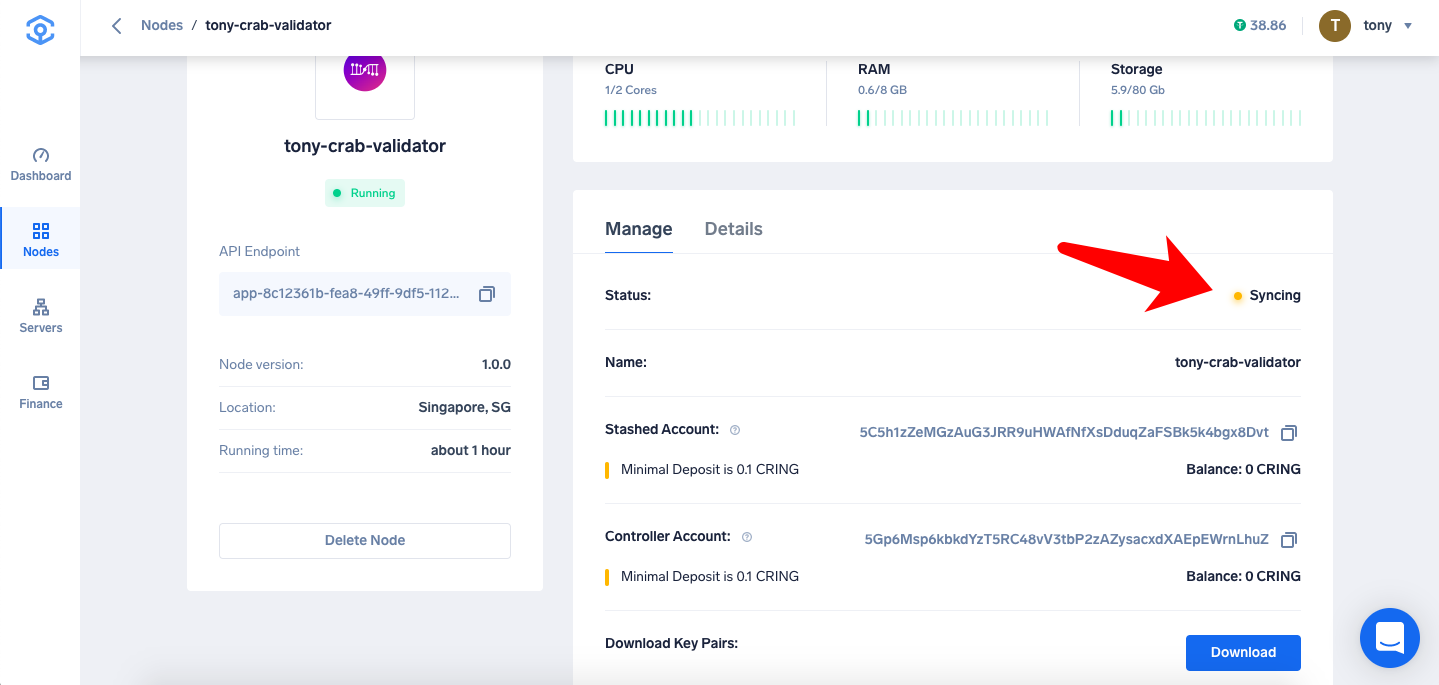
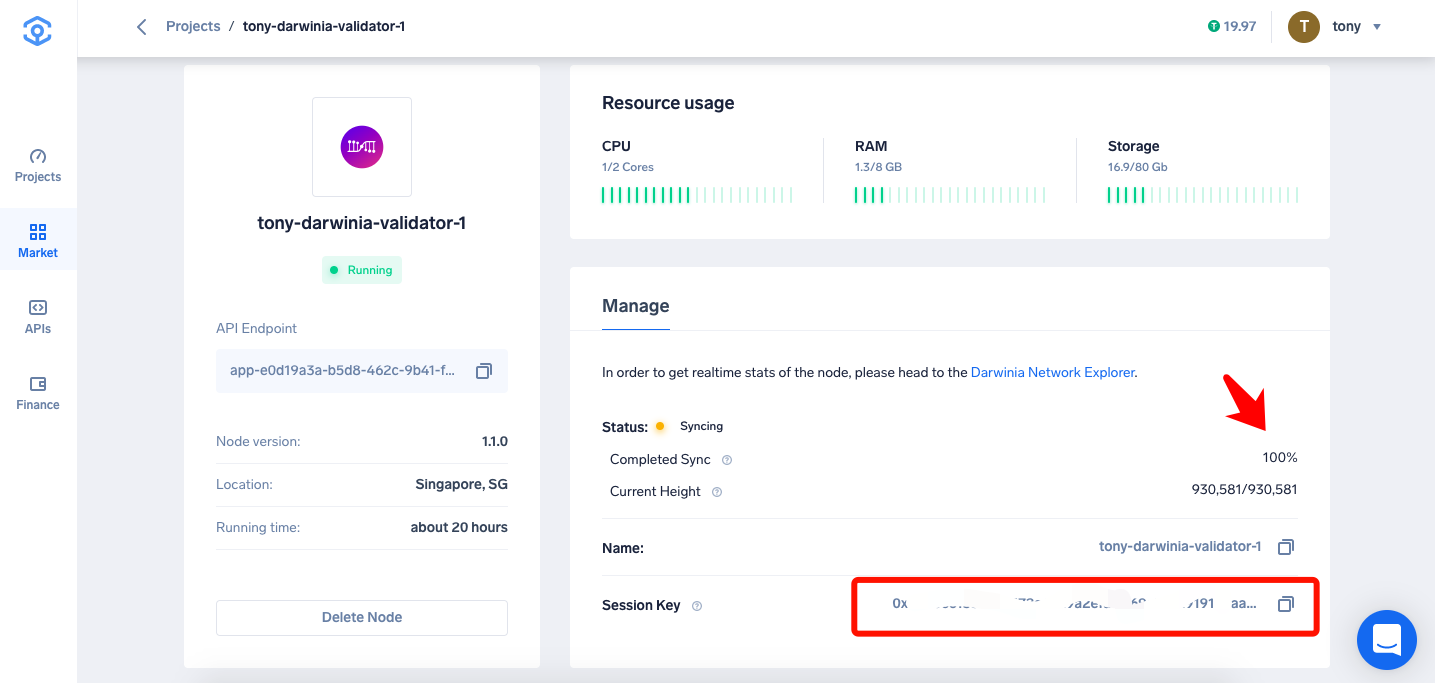
Deploy website
Deploy website version based on 58f637d30372a122e148349a996ee486a4a46407

diff --git a/blog/2020/06/08/ankr.html b/blog/2020/06/08/ankr.html
@@ -83,12 +83,12 @@
         </script></nav></div><div class="container mainContainer postContainer blogContainer"><div class="wrapper"><div class="lonePost"><div class="post"><header class="postHeader"><h1 class="postHeaderTitle"><a href="/blog/2020/06/08/ankr">Ankr Network 现已支持 Darwinia Crab</a></h1><p class="post-meta">June 8, 2020</p><div class="authorBlock"><p class="post-authorName"><a href="http://twitter.com/DarwiniaNetwork" target="_blank" rel="noreferrer noopener">@DarwiniaNetwork</a></p></div></header><div><span><p><img src="/blog/assets/2020-06-08-ankr.png" alt=""></p>
 <p>Ankr Network 现已支持「一键」运行 Darwinia Crab 节点。</p>
 <!--truncate-->
-<h2><a class="anchor" aria-hidden="true" id="如何通过-ankr-运行-darwinia-crab-节点"></a><a href="#如何通过-ankr-运行-darwinia-crab-节点" aria-hidden="true" class="hash-link"><svg class="hash-link-icon" aria-hidden="true" height="16" version="1.1" viewBox="0 0 16 16" width="16"><path fill-rule="evenodd" d="M4 9h1v1H4c-1.5 0-3-1.69-3-3.5S2.55 3 4 3h4c1.45 0 3 1.69 3 3.5 0 1.41-.91 2.72-2 3.25V8.59c.58-.45 1-1.27 1-2.09C10 5.22 8.98 4 8 4H4c-.98 0-2 1.22-2 2.5S3 9 4 9zm9-3h-1v1h1c1 0 2 1.22 2 2.5S13.98 12 13 12H9c-.98 0-2-1.22-2-2.5 0-.83.42-1.64 1-2.09V6.25c-1.09.53-2 1.84-2 3.25C6 11.31 7.55 13 9 13h4c1.45 0 3-1.69 3-3.5S14.5 6 13 6z"></path></svg></a>如何通过 Ankr 运行 Darwinia Crab 节点</h2>
-<h3><a class="anchor" aria-hidden="true" id="教程："></a><a href="#教程：" aria-hidden="true" class="hash-link"><svg class="hash-link-icon" aria-hidden="true" height="16" version="1.1" viewBox="0 0 16 16" width="16"><path fill-rule="evenodd" d="M4 9h1v1H4c-1.5 0-3-1.69-3-3.5S2.55 3 4 3h4c1.45 0 3 1.69 3 3.5 0 1.41-.91 2.72-2 3.25V8.59c.58-.45 1-1.27 1-2.09C10 5.22 8.98 4 8 4H4c-.98 0-2 1.22-2 2.5S3 9 4 9zm9-3h-1v1h1c1 0 2 1.22 2 2.5S13.98 12 13 12H9c-.98 0-2-1.22-2-2.5 0-.83.42-1.64 1-2.09V6.25c-1.09.53-2 1.84-2 3.25C6 11.31 7.55 13 9 13h4c1.45 0 3-1.69 3-3.5S14.5 6 13 6z"></path></svg></a>教程：</h3>
+<h1><a class="anchor" aria-hidden="true" id="如何通过-ankr-运行-darwinia-crab-节点"></a><a href="#如何通过-ankr-运行-darwinia-crab-节点" aria-hidden="true" class="hash-link"><svg class="hash-link-icon" aria-hidden="true" height="16" version="1.1" viewBox="0 0 16 16" width="16"><path fill-rule="evenodd" d="M4 9h1v1H4c-1.5 0-3-1.69-3-3.5S2.55 3 4 3h4c1.45 0 3 1.69 3 3.5 0 1.41-.91 2.72-2 3.25V8.59c.58-.45 1-1.27 1-2.09C10 5.22 8.98 4 8 4H4c-.98 0-2 1.22-2 2.5S3 9 4 9zm9-3h-1v1h1c1 0 2 1.22 2 2.5S13.98 12 13 12H9c-.98 0-2-1.22-2-2.5 0-.83.42-1.64 1-2.09V6.25c-1.09.53-2 1.84-2 3.25C6 11.31 7.55 13 9 13h4c1.45 0 3-1.69 3-3.5S14.5 6 13 6z"></path></svg></a>如何通过 Ankr 运行 Darwinia Crab 节点</h1>
+<h2><a class="anchor" aria-hidden="true" id="教程："></a><a href="#教程：" aria-hidden="true" class="hash-link"><svg class="hash-link-icon" aria-hidden="true" height="16" version="1.1" viewBox="0 0 16 16" width="16"><path fill-rule="evenodd" d="M4 9h1v1H4c-1.5 0-3-1.69-3-3.5S2.55 3 4 3h4c1.45 0 3 1.69 3 3.5 0 1.41-.91 2.72-2 3.25V8.59c.58-.45 1-1.27 1-2.09C10 5.22 8.98 4 8 4H4c-.98 0-2 1.22-2 2.5S3 9 4 9zm9-3h-1v1h1c1 0 2 1.22 2 2.5S13.98 12 13 12H9c-.98 0-2-1.22-2-2.5 0-.83.42-1.64 1-2.09V6.25c-1.09.53-2 1.84-2 3.25C6 11.31 7.55 13 9 13h4c1.45 0 3-1.69 3-3.5S14.5 6 13 6z"></path></svg></a>教程：</h2>
 <p>1、注册Ankr账号</p>
 <p>2、在Nodes → Node Market 找到 Darwinia，选择你想要运行的节点类型</p>
 <p><img src="/blog/assets/2020-06-08-ankr-2.png" alt=""></p>
-<h3><a class="anchor" aria-hidden="true" id="运行-full-node"></a><a href="#运行-full-node" aria-hidden="true" class="hash-link"><svg class="hash-link-icon" aria-hidden="true" height="16" version="1.1" viewBox="0 0 16 16" width="16"><path fill-rule="evenodd" d="M4 9h1v1H4c-1.5 0-3-1.69-3-3.5S2.55 3 4 3h4c1.45 0 3 1.69 3 3.5 0 1.41-.91 2.72-2 3.25V8.59c.58-.45 1-1.27 1-2.09C10 5.22 8.98 4 8 4H4c-.98 0-2 1.22-2 2.5S3 9 4 9zm9-3h-1v1h1c1 0 2 1.22 2 2.5S13.98 12 13 12H9c-.98 0-2-1.22-2-2.5 0-.83.42-1.64 1-2.09V6.25c-1.09.53-2 1.84-2 3.25C6 11.31 7.55 13 9 13h4c1.45 0 3-1.69 3-3.5S14.5 6 13 6z"></path></svg></a>运行 Full Node</h3>
+<h2><a class="anchor" aria-hidden="true" id="运行-full-node"></a><a href="#运行-full-node" aria-hidden="true" class="hash-link"><svg class="hash-link-icon" aria-hidden="true" height="16" version="1.1" viewBox="0 0 16 16" width="16"><path fill-rule="evenodd" d="M4 9h1v1H4c-1.5 0-3-1.69-3-3.5S2.55 3 4 3h4c1.45 0 3 1.69 3 3.5 0 1.41-.91 2.72-2 3.25V8.59c.58-.45 1-1.27 1-2.09C10 5.22 8.98 4 8 4H4c-.98 0-2 1.22-2 2.5S3 9 4 9zm9-3h-1v1h1c1 0 2 1.22 2 2.5S13.98 12 13 12H9c-.98 0-2-1.22-2-2.5 0-.83.42-1.64 1-2.09V6.25c-1.09.53-2 1.84-2 3.25C6 11.31 7.55 13 9 13h4c1.45 0 3-1.69 3-3.5S14.5 6 13 6z"></path></svg></a>运行 Full Node</h2>
 <ul>
 <li>选择服务器配置及其他信息</li>
 </ul>
@@ -105,16 +105,42 @@
 <li>3）可以随时删除节点，删除节点2个小时后，节点将从「Your Nodes」列表删除。</li>
 </ul></li>
 </ul>
-<h3><a class="anchor" aria-hidden="true" id="运行-validator-node"></a><a href="#运行-validator-node" aria-hidden="true" class="hash-link"><svg class="hash-link-icon" aria-hidden="true" height="16" version="1.1" viewBox="0 0 16 16" width="16"><path fill-rule="evenodd" d="M4 9h1v1H4c-1.5 0-3-1.69-3-3.5S2.55 3 4 3h4c1.45 0 3 1.69 3 3.5 0 1.41-.91 2.72-2 3.25V8.59c.58-.45 1-1.27 1-2.09C10 5.22 8.98 4 8 4H4c-.98 0-2 1.22-2 2.5S3 9 4 9zm9-3h-1v1h1c1 0 2 1.22 2 2.5S13.98 12 13 12H9c-.98 0-2-1.22-2-2.5 0-.83.42-1.64 1-2.09V6.25c-1.09.53-2 1.84-2 3.25C6 11.31 7.55 13 9 13h4c1.45 0 3-1.69 3-3.5S14.5 6 13 6z"></path></svg></a>运行 Validator Node</h3>
+<h2><a class="anchor" aria-hidden="true" id="运行-validator-node"></a><a href="#运行-validator-node" aria-hidden="true" class="hash-link"><svg class="hash-link-icon" aria-hidden="true" height="16" version="1.1" viewBox="0 0 16 16" width="16"><path fill-rule="evenodd" d="M4 9h1v1H4c-1.5 0-3-1.69-3-3.5S2.55 3 4 3h4c1.45 0 3 1.69 3 3.5 0 1.41-.91 2.72-2 3.25V8.59c.58-.45 1-1.27 1-2.09C10 5.22 8.98 4 8 4H4c-.98 0-2 1.22-2 2.5S3 9 4 9zm9-3h-1v1h1c1 0 2 1.22 2 2.5S13.98 12 13 12H9c-.98 0-2-1.22-2-2.5 0-.83.42-1.64 1-2.09V6.25c-1.09.53-2 1.84-2 3.25C6 11.31 7.55 13 9 13h4c1.45 0 3-1.69 3-3.5S14.5 6 13 6z"></path></svg></a>运行 Validator Node</h2>
+<h3><a class="anchor" aria-hidden="true" id="部署一个-validator-node"></a><a href="#部署一个-validator-node" aria-hidden="true" class="hash-link"><svg class="hash-link-icon" aria-hidden="true" height="16" version="1.1" viewBox="0 0 16 16" width="16"><path fill-rule="evenodd" d="M4 9h1v1H4c-1.5 0-3-1.69-3-3.5S2.55 3 4 3h4c1.45 0 3 1.69 3 3.5 0 1.41-.91 2.72-2 3.25V8.59c.58-.45 1-1.27 1-2.09C10 5.22 8.98 4 8 4H4c-.98 0-2 1.22-2 2.5S3 9 4 9zm9-3h-1v1h1c1 0 2 1.22 2 2.5S13.98 12 13 12H9c-.98 0-2-1.22-2-2.5 0-.83.42-1.64 1-2.09V6.25c-1.09.53-2 1.84-2 3.25C6 11.31 7.55 13 9 13h4c1.45 0 3-1.69 3-3.5S14.5 6 13 6z"></path></svg></a>部署一个 Validator Node</h3>
 <ul>
 <li>相同步骤参考全节点</li>
-<li>成功之后可以看到节点在同步中</li>
+<li>成功之后可以看到节点在同步中（同步需要较长时间，耐心等待同步完成）</li>
 </ul>
 <p><img src="/blog/assets/2020-06-08-ankr-5.png" alt=""></p>
 <ul>
-<li>可以点击「Download」下载Crab账号json文件，json文件的默认密码是：anKrpas5wd。</li>
+<li>红框内可以看到 Ankr 帮你生成的 Session Keys，复制</li>
 </ul>
-<p><img src="/blog/assets/2020-06-08-ankr-6.png" alt=""></p>
+<h3><a class="anchor" aria-hidden="true" id="设置-session-keys"></a><a href="#设置-session-keys" aria-hidden="true" class="hash-link"><svg class="hash-link-icon" aria-hidden="true" height="16" version="1.1" viewBox="0 0 16 16" width="16"><path fill-rule="evenodd" d="M4 9h1v1H4c-1.5 0-3-1.69-3-3.5S2.55 3 4 3h4c1.45 0 3 1.69 3 3.5 0 1.41-.91 2.72-2 3.25V8.59c.58-.45 1-1.27 1-2.09C10 5.22 8.98 4 8 4H4c-.98 0-2 1.22-2 2.5S3 9 4 9zm9-3h-1v1h1c1 0 2 1.22 2 2.5S13.98 12 13 12H9c-.98 0-2-1.22-2-2.5 0-.83.42-1.64 1-2.09V6.25c-1.09.53-2 1.84-2 3.25C6 11.31 7.55 13 9 13h4c1.45 0 3-1.69 3-3.5S14.5 6 13 6z"></path></svg></a>设置 Session Keys</h3>
+<blockquote>
+<p>在设置 Session Keys 之前，需要先完成 bond 操作</p>
+</blockquote>
+<p>点击【Session 账号】，输入刚刚复制的 Session Keys ，点击【设置Session Keys】提交。</p>
+<blockquote>
+<p>session keys 务必填写真实数据，否则会导致漏块，从而收到经济惩罚。</p>
+</blockquote>
+<p><img src="/blog/assets/tut-validator-1-cn.png" alt=""></p>
+<p>确认无误后，点击【签名并提交】</p>
+<p><img src="/blog/assets/tut-validator-2-cn.png" alt=""></p>
+<blockquote>
+<p>验证人和提名人的身份是互斥的，不可并存。如果您正在提名其他验证人，需要取消提名操作后，再进行后续的操作。</p>
+</blockquote>
+<p>点击【验证】，开始设置验证人参数</p>
+<ul>
+<li><code>奖励佣金百分比</code> 设置本节点优先分配收益的比重，范围为 <strong>0-100%</strong>。（例：如设置了 <strong>5%</strong> 的奖励佣金，本节点将优先获得节点收益的 <strong>5%</strong>，剩下 <strong>95%</strong> 的节点收益，将依据验证人和投票人抵押的金额，按比例分配；也就是说，<code>验证人的收益 = 节点奖励佣金 + 抵押奖励分成</code>）</li>
+</ul>
+<p><img src="/blog/assets/tut-validator-3-cn.png" alt=""></p>
+<p>确认无误后，点击【签名并提交】</p>
+<p><img src="/blog/assets/tut-validator-4-cn.png" alt=""></p>
+<p>去【浏览器】查看当前验证人的相关信息</p>
+<p><img src="/blog/assets/tut-validator-5-cn.png" alt=""></p>
+<blockquote>
+<p>参选验证人后会进入【候选】队列，在进入下一个 era 的时刻参与选举。</p>
+</blockquote>
 <ul>
 <li>Tips：
 <ul>
@@ -123,7 +149,7 @@
 </ul>
 <h2><a class="anchor" aria-hidden="true" id="关于-ankr-network"></a><a href="#关于-ankr-network" aria-hidden="true" class="hash-link"><svg class="hash-link-icon" aria-hidden="true" height="16" version="1.1" viewBox="0 0 16 16" width="16"><path fill-rule="evenodd" d="M4 9h1v1H4c-1.5 0-3-1.69-3-3.5S2.55 3 4 3h4c1.45 0 3 1.69 3 3.5 0 1.41-.91 2.72-2 3.25V8.59c.58-.45 1-1.27 1-2.09C10 5.22 8.98 4 8 4H4c-.98 0-2 1.22-2 2.5S3 9 4 9zm9-3h-1v1h1c1 0 2 1.22 2 2.5S13.98 12 13 12H9c-.98 0-2-1.22-2-2.5 0-.83.42-1.64 1-2.09V6.25c-1.09.53-2 1.84-2 3.25C6 11.31 7.55 13 9 13h4c1.45 0 3-1.69 3-3.5S14.5 6 13 6z"></path></svg></a>关于 Ankr Network</h2>
 <p>Ankr 正在构建一个分布式计算网络，利用数据中心和边缘设备中的空闲云资源。 计算市场通过惠及市场双方，为云计算释放共享经济。借助 Kubernetes，Docker 容器，区块链和可信硬件等技术，Ankr 正在使新云更便宜，更安全，更便于用户使用。该团队由雄心勃勃的连续创业者和经验丰富的工程师领导，并积极与 SAP 和 Telefonica 等大型科技公司合作，以实现现实世界的应用。</p>
[2 lines of base64/hex data omitted]
                 document.addEventListener('keyup', function(e) {
                   if (e.target !== document.body) {
                     return;

diff --git a/blog/2020/06/08/ankr/index.html b/blog/2020/06/08/ankr/index.html
@@ -83,12 +83,12 @@
         </script></nav></div><div class="container mainContainer postContainer blogContainer"><div class="wrapper"><div class="lonePost"><div class="post"><header class="postHeader"><h1 class="postHeaderTitle"><a href="/blog/2020/06/08/ankr">Ankr Network 现已支持 Darwinia Crab</a></h1><p class="post-meta">June 8, 2020</p><div class="authorBlock"><p class="post-authorName"><a href="http://twitter.com/DarwiniaNetwork" target="_blank" rel="noreferrer noopener">@DarwiniaNetwork</a></p></div></header><div><span><p><img src="/blog/assets/2020-06-08-ankr.png" alt=""></p>
 <p>Ankr Network 现已支持「一键」运行 Darwinia Crab 节点。</p>
 <!--truncate-->
-<h2><a class="anchor" aria-hidden="true" id="如何通过-ankr-运行-darwinia-crab-节点"></a><a href="#如何通过-ankr-运行-darwinia-crab-节点" aria-hidden="true" class="hash-link"><svg class="hash-link-icon" aria-hidden="true" height="16" version="1.1" viewBox="0 0 16 16" width="16"><path fill-rule="evenodd" d="M4 9h1v1H4c-1.5 0-3-1.69-3-3.5S2.55 3 4 3h4c1.45 0 3 1.69 3 3.5 0 1.41-.91 2.72-2 3.25V8.59c.58-.45 1-1.27 1-2.09C10 5.22 8.98 4 8 4H4c-.98 0-2 1.22-2 2.5S3 9 4 9zm9-3h-1v1h1c1 0 2 1.22 2 2.5S13.98 12 13 12H9c-.98 0-2-1.22-2-2.5 0-.83.42-1.64 1-2.09V6.25c-1.09.53-2 1.84-2 3.25C6 11.31 7.55 13 9 13h4c1.45 0 3-1.69 3-3.5S14.5 6 13 6z"></path></svg></a>如何通过 Ankr 运行 Darwinia Crab 节点</h2>
-<h3><a class="anchor" aria-hidden="true" id="教程："></a><a href="#教程：" aria-hidden="true" class="hash-link"><svg class="hash-link-icon" aria-hidden="true" height="16" version="1.1" viewBox="0 0 16 16" width="16"><path fill-rule="evenodd" d="M4 9h1v1H4c-1.5 0-3-1.69-3-3.5S2.55 3 4 3h4c1.45 0 3 1.69 3 3.5 0 1.41-.91 2.72-2 3.25V8.59c.58-.45 1-1.27 1-2.09C10 5.22 8.98 4 8 4H4c-.98 0-2 1.22-2 2.5S3 9 4 9zm9-3h-1v1h1c1 0 2 1.22 2 2.5S13.98 12 13 12H9c-.98 0-2-1.22-2-2.5 0-.83.42-1.64 1-2.09V6.25c-1.09.53-2 1.84-2 3.25C6 11.31 7.55 13 9 13h4c1.45 0 3-1.69 3-3.5S14.5 6 13 6z"></path></svg></a>教程：</h3>
+<h1><a class="anchor" aria-hidden="true" id="如何通过-ankr-运行-darwinia-crab-节点"></a><a href="#如何通过-ankr-运行-darwinia-crab-节点" aria-hidden="true" class="hash-link"><svg class="hash-link-icon" aria-hidden="true" height="16" version="1.1" viewBox="0 0 16 16" width="16"><path fill-rule="evenodd" d="M4 9h1v1H4c-1.5 0-3-1.69-3-3.5S2.55 3 4 3h4c1.45 0 3 1.69 3 3.5 0 1.41-.91 2.72-2 3.25V8.59c.58-.45 1-1.27 1-2.09C10 5.22 8.98 4 8 4H4c-.98 0-2 1.22-2 2.5S3 9 4 9zm9-3h-1v1h1c1 0 2 1.22 2 2.5S13.98 12 13 12H9c-.98 0-2-1.22-2-2.5 0-.83.42-1.64 1-2.09V6.25c-1.09.53-2 1.84-2 3.25C6 11.31 7.55 13 9 13h4c1.45 0 3-1.69 3-3.5S14.5 6 13 6z"></path></svg></a>如何通过 Ankr 运行 Darwinia Crab 节点</h1>
+<h2><a class="anchor" aria-hidden="true" id="教程："></a><a href="#教程：" aria-hidden="true" class="hash-link"><svg class="hash-link-icon" aria-hidden="true" height="16" version="1.1" viewBox="0 0 16 16" width="16"><path fill-rule="evenodd" d="M4 9h1v1H4c-1.5 0-3-1.69-3-3.5S2.55 3 4 3h4c1.45 0 3 1.69 3 3.5 0 1.41-.91 2.72-2 3.25V8.59c.58-.45 1-1.27 1-2.09C10 5.22 8.98 4 8 4H4c-.98 0-2 1.22-2 2.5S3 9 4 9zm9-3h-1v1h1c1 0 2 1.22 2 2.5S13.98 12 13 12H9c-.98 0-2-1.22-2-2.5 0-.83.42-1.64 1-2.09V6.25c-1.09.53-2 1.84-2 3.25C6 11.31 7.55 13 9 13h4c1.45 0 3-1.69 3-3.5S14.5 6 13 6z"></path></svg></a>教程：</h2>
 <p>1、注册Ankr账号</p>
 <p>2、在Nodes → Node Market 找到 Darwinia，选择你想要运行的节点类型</p>
 <p><img src="/blog/assets/2020-06-08-ankr-2.png" alt=""></p>
-<h3><a class="anchor" aria-hidden="true" id="运行-full-node"></a><a href="#运行-full-node" aria-hidden="true" class="hash-link"><svg class="hash-link-icon" aria-hidden="true" height="16" version="1.1" viewBox="0 0 16 16" width="16"><path fill-rule="evenodd" d="M4 9h1v1H4c-1.5 0-3-1.69-3-3.5S2.55 3 4 3h4c1.45 0 3 1.69 3 3.5 0 1.41-.91 2.72-2 3.25V8.59c.58-.45 1-1.27 1-2.09C10 5.22 8.98 4 8 4H4c-.98 0-2 1.22-2 2.5S3 9 4 9zm9-3h-1v1h1c1 0 2 1.22 2 2.5S13.98 12 13 12H9c-.98 0-2-1.22-2-2.5 0-.83.42-1.64 1-2.09V6.25c-1.09.53-2 1.84-2 3.25C6 11.31 7.55 13 9 13h4c1.45 0 3-1.69 3-3.5S14.5 6 13 6z"></path></svg></a>运行 Full Node</h3>
+<h2><a class="anchor" aria-hidden="true" id="运行-full-node"></a><a href="#运行-full-node" aria-hidden="true" class="hash-link"><svg class="hash-link-icon" aria-hidden="true" height="16" version="1.1" viewBox="0 0 16 16" width="16"><path fill-rule="evenodd" d="M4 9h1v1H4c-1.5 0-3-1.69-3-3.5S2.55 3 4 3h4c1.45 0 3 1.69 3 3.5 0 1.41-.91 2.72-2 3.25V8.59c.58-.45 1-1.27 1-2.09C10 5.22 8.98 4 8 4H4c-.98 0-2 1.22-2 2.5S3 9 4 9zm9-3h-1v1h1c1 0 2 1.22 2 2.5S13.98 12 13 12H9c-.98 0-2-1.22-2-2.5 0-.83.42-1.64 1-2.09V6.25c-1.09.53-2 1.84-2 3.25C6 11.31 7.55 13 9 13h4c1.45 0 3-1.69 3-3.5S14.5 6 13 6z"></path></svg></a>运行 Full Node</h2>
 <ul>
 <li>选择服务器配置及其他信息</li>
 </ul>
@@ -105,16 +105,42 @@
 <li>3）可以随时删除节点，删除节点2个小时后，节点将从「Your Nodes」列表删除。</li>
 </ul></li>
 </ul>
-<h3><a class="anchor" aria-hidden="true" id="运行-validator-node"></a><a href="#运行-validator-node" aria-hidden="true" class="hash-link"><svg class="hash-link-icon" aria-hidden="true" height="16" version="1.1" viewBox="0 0 16 16" width="16"><path fill-rule="evenodd" d="M4 9h1v1H4c-1.5 0-3-1.69-3-3.5S2.55 3 4 3h4c1.45 0 3 1.69 3 3.5 0 1.41-.91 2.72-2 3.25V8.59c.58-.45 1-1.27 1-2.09C10 5.22 8.98 4 8 4H4c-.98 0-2 1.22-2 2.5S3 9 4 9zm9-3h-1v1h1c1 0 2 1.22 2 2.5S13.98 12 13 12H9c-.98 0-2-1.22-2-2.5 0-.83.42-1.64 1-2.09V6.25c-1.09.53-2 1.84-2 3.25C6 11.31 7.55 13 9 13h4c1.45 0 3-1.69 3-3.5S14.5 6 13 6z"></path></svg></a>运行 Validator Node</h3>
+<h2><a class="anchor" aria-hidden="true" id="运行-validator-node"></a><a href="#运行-validator-node" aria-hidden="true" class="hash-link"><svg class="hash-link-icon" aria-hidden="true" height="16" version="1.1" viewBox="0 0 16 16" width="16"><path fill-rule="evenodd" d="M4 9h1v1H4c-1.5 0-3-1.69-3-3.5S2.55 3 4 3h4c1.45 0 3 1.69 3 3.5 0 1.41-.91 2.72-2 3.25V8.59c.58-.45 1-1.27 1-2.09C10 5.22 8.98 4 8 4H4c-.98 0-2 1.22-2 2.5S3 9 4 9zm9-3h-1v1h1c1 0 2 1.22 2 2.5S13.98 12 13 12H9c-.98 0-2-1.22-2-2.5 0-.83.42-1.64 1-2.09V6.25c-1.09.53-2 1.84-2 3.25C6 11.31 7.55 13 9 13h4c1.45 0 3-1.69 3-3.5S14.5 6 13 6z"></path></svg></a>运行 Validator Node</h2>
+<h3><a class="anchor" aria-hidden="true" id="部署一个-validator-node"></a><a href="#部署一个-validator-node" aria-hidden="true" class="hash-link"><svg class="hash-link-icon" aria-hidden="true" height="16" version="1.1" viewBox="0 0 16 16" width="16"><path fill-rule="evenodd" d="M4 9h1v1H4c-1.5 0-3-1.69-3-3.5S2.55 3 4 3h4c1.45 0 3 1.69 3 3.5 0 1.41-.91 2.72-2 3.25V8.59c.58-.45 1-1.27 1-2.09C10 5.22 8.98 4 8 4H4c-.98 0-2 1.22-2 2.5S3 9 4 9zm9-3h-1v1h1c1 0 2 1.22 2 2.5S13.98 12 13 12H9c-.98 0-2-1.22-2-2.5 0-.83.42-1.64 1-2.09V6.25c-1.09.53-2 1.84-2 3.25C6 11.31 7.55 13 9 13h4c1.45 0 3-1.69 3-3.5S14.5 6 13 6z"></path></svg></a>部署一个 Validator Node</h3>
 <ul>
 <li>相同步骤参考全节点</li>
-<li>成功之后可以看到节点在同步中</li>
+<li>成功之后可以看到节点在同步中（同步需要较长时间，耐心等待同步完成）</li>
 </ul>
 <p><img src="/blog/assets/2020-06-08-ankr-5.png" alt=""></p>
 <ul>
-<li>可以点击「Download」下载Crab账号json文件，json文件的默认密码是：anKrpas5wd。</li>
+<li>红框内可以看到 Ankr 帮你生成的 Session Keys，复制</li>
 </ul>
-<p><img src="/blog/assets/2020-06-08-ankr-6.png" alt=""></p>
+<h3><a class="anchor" aria-hidden="true" id="设置-session-keys"></a><a href="#设置-session-keys" aria-hidden="true" class="hash-link"><svg class="hash-link-icon" aria-hidden="true" height="16" version="1.1" viewBox="0 0 16 16" width="16"><path fill-rule="evenodd" d="M4 9h1v1H4c-1.5 0-3-1.69-3-3.5S2.55 3 4 3h4c1.45 0 3 1.69 3 3.5 0 1.41-.91 2.72-2 3.25V8.59c.58-.45 1-1.27 1-2.09C10 5.22 8.98 4 8 4H4c-.98 0-2 1.22-2 2.5S3 9 4 9zm9-3h-1v1h1c1 0 2 1.22 2 2.5S13.98 12 13 12H9c-.98 0-2-1.22-2-2.5 0-.83.42-1.64 1-2.09V6.25c-1.09.53-2 1.84-2 3.25C6 11.31 7.55 13 9 13h4c1.45 0 3-1.69 3-3.5S14.5 6 13 6z"></path></svg></a>设置 Session Keys</h3>
+<blockquote>
+<p>在设置 Session Keys 之前，需要先完成 bond 操作</p>
+</blockquote>
+<p>点击【Session 账号】，输入刚刚复制的 Session Keys ，点击【设置Session Keys】提交。</p>
+<blockquote>
+<p>session keys 务必填写真实数据，否则会导致漏块，从而收到经济惩罚。</p>
+</blockquote>
+<p><img src="/blog/assets/tut-validator-1-cn.png" alt=""></p>
+<p>确认无误后，点击【签名并提交】</p>
+<p><img src="/blog/assets/tut-validator-2-cn.png" alt=""></p>
+<blockquote>
+<p>验证人和提名人的身份是互斥的，不可并存。如果您正在提名其他验证人，需要取消提名操作后，再进行后续的操作。</p>
+</blockquote>
+<p>点击【验证】，开始设置验证人参数</p>
+<ul>
+<li><code>奖励佣金百分比</code> 设置本节点优先分配收益的比重，范围为 <strong>0-100%</strong>。（例：如设置了 <strong>5%</strong> 的奖励佣金，本节点将优先获得节点收益的 <strong>5%</strong>，剩下 <strong>95%</strong> 的节点收益，将依据验证人和投票人抵押的金额，按比例分配；也就是说，<code>验证人的收益 = 节点奖励佣金 + 抵押奖励分成</code>）</li>
+</ul>
+<p><img src="/blog/assets/tut-validator-3-cn.png" alt=""></p>
+<p>确认无误后，点击【签名并提交】</p>
+<p><img src="/blog/assets/tut-validator-4-cn.png" alt=""></p>
+<p>去【浏览器】查看当前验证人的相关信息</p>
+<p><img src="/blog/assets/tut-validator-5-cn.png" alt=""></p>
+<blockquote>
+<p>参选验证人后会进入【候选】队列，在进入下一个 era 的时刻参与选举。</p>
+</blockquote>
 <ul>
 <li>Tips：
 <ul>
@@ -123,7 +149,7 @@
 </ul>
 <h2><a class="anchor" aria-hidden="true" id="关于-ankr-network"></a><a href="#关于-ankr-network" aria-hidden="true" class="hash-link"><svg class="hash-link-icon" aria-hidden="true" height="16" version="1.1" viewBox="0 0 16 16" width="16"><path fill-rule="evenodd" d="M4 9h1v1H4c-1.5 0-3-1.69-3-3.5S2.55 3 4 3h4c1.45 0 3 1.69 3 3.5 0 1.41-.91 2.72-2 3.25V8.59c.58-.45 1-1.27 1-2.09C10 5.22 8.98 4 8 4H4c-.98 0-2 1.22-2 2.5S3 9 4 9zm9-3h-1v1h1c1 0 2 1.22 2 2.5S13.98 12 13 12H9c-.98 0-2-1.22-2-2.5 0-.83.42-1.64 1-2.09V6.25c-1.09.53-2 1.84-2 3.25C6 11.31 7.55 13 9 13h4c1.45 0 3-1.69 3-3.5S14.5 6 13 6z"></path></svg></a>关于 Ankr Network</h2>
 <p>Ankr 正在构建一个分布式计算网络，利用数据中心和边缘设备中的空闲云资源。 计算市场通过惠及市场双方，为云计算释放共享经济。借助 Kubernetes，Docker 容器，区块链和可信硬件等技术，Ankr 正在使新云更便宜，更安全，更便于用户使用。该团队由雄心勃勃的连续创业者和经验丰富的工程师领导，并积极与 SAP 和 Telefonica 等大型科技公司合作，以实现现实世界的应用。</p>
[2 lines of base64/hex data omitted]
                 document.addEventListener('keyup', function(e) {
                   if (e.target !== document.body) {
                     return;
